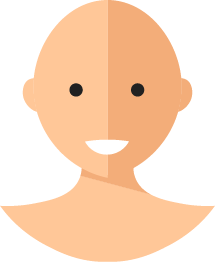
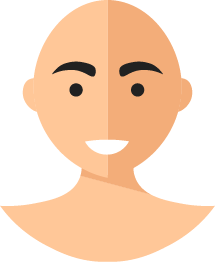
Eyebrow impl

Changed region(s): [[0.5581, 0.2137, 0.7535, 0.3053], [0.2512, 0.2137, 0.4465, 0.3053]]

diff --git a/src/App.js b/src/App.js
@@ -49,7 +49,7 @@ class App extends Component {
 
     actx.drawImage(head, window.innerWidth/8+10 , 100);
     data[0].labelAnnotations.map((key,i)=>{
-      //console.log(key);
+      console.log(key);
 
       //eyewear
       if(key.description === 'glasses' || key.description === 'eyewear'){
@@ -83,7 +83,7 @@ class App extends Component {
     })
 
     if(!skinhead){
-      actx.drawImage(hair, window.innerWidth/8+40, 75);
+      actx.drawImage(hair, window.innerWidth/8+38, 75);
     }
   }
 
